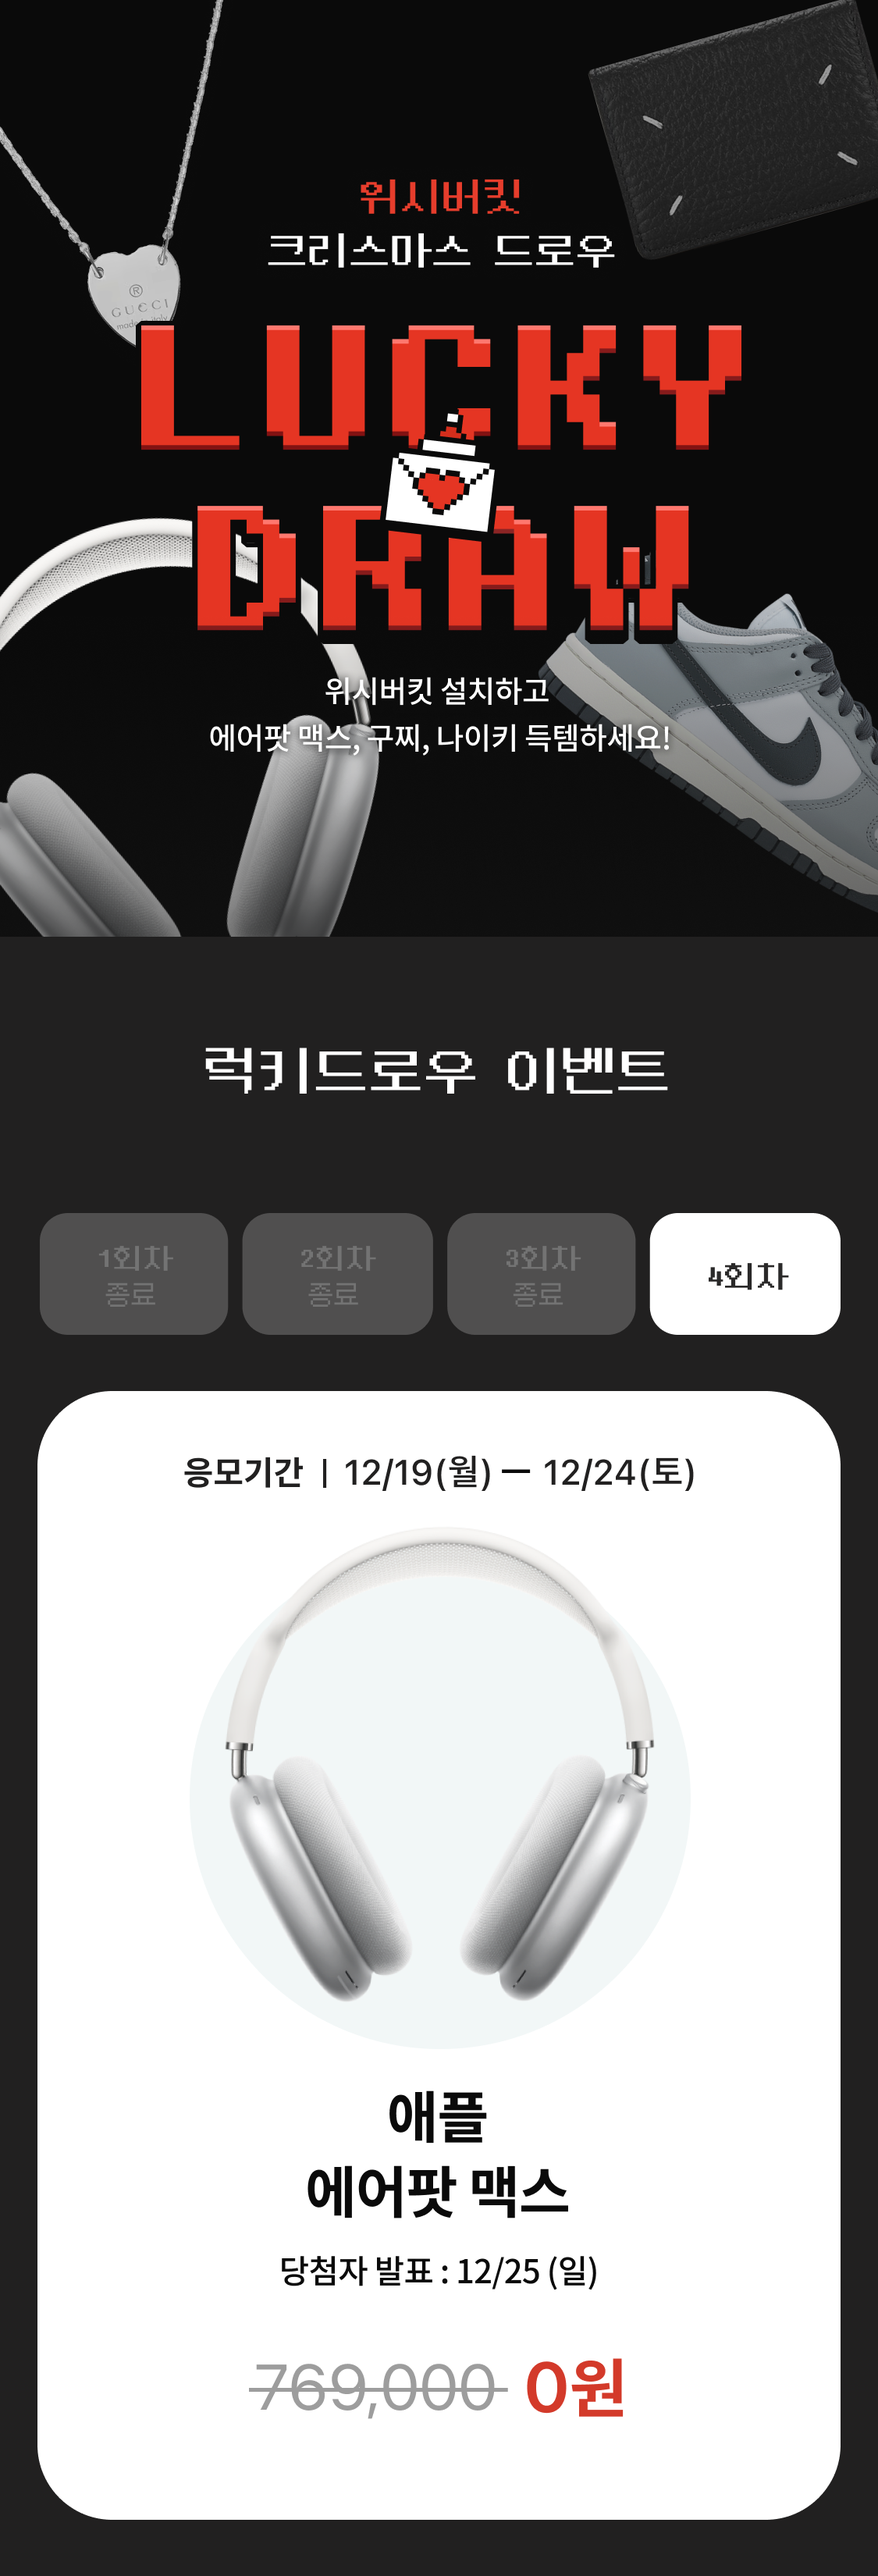
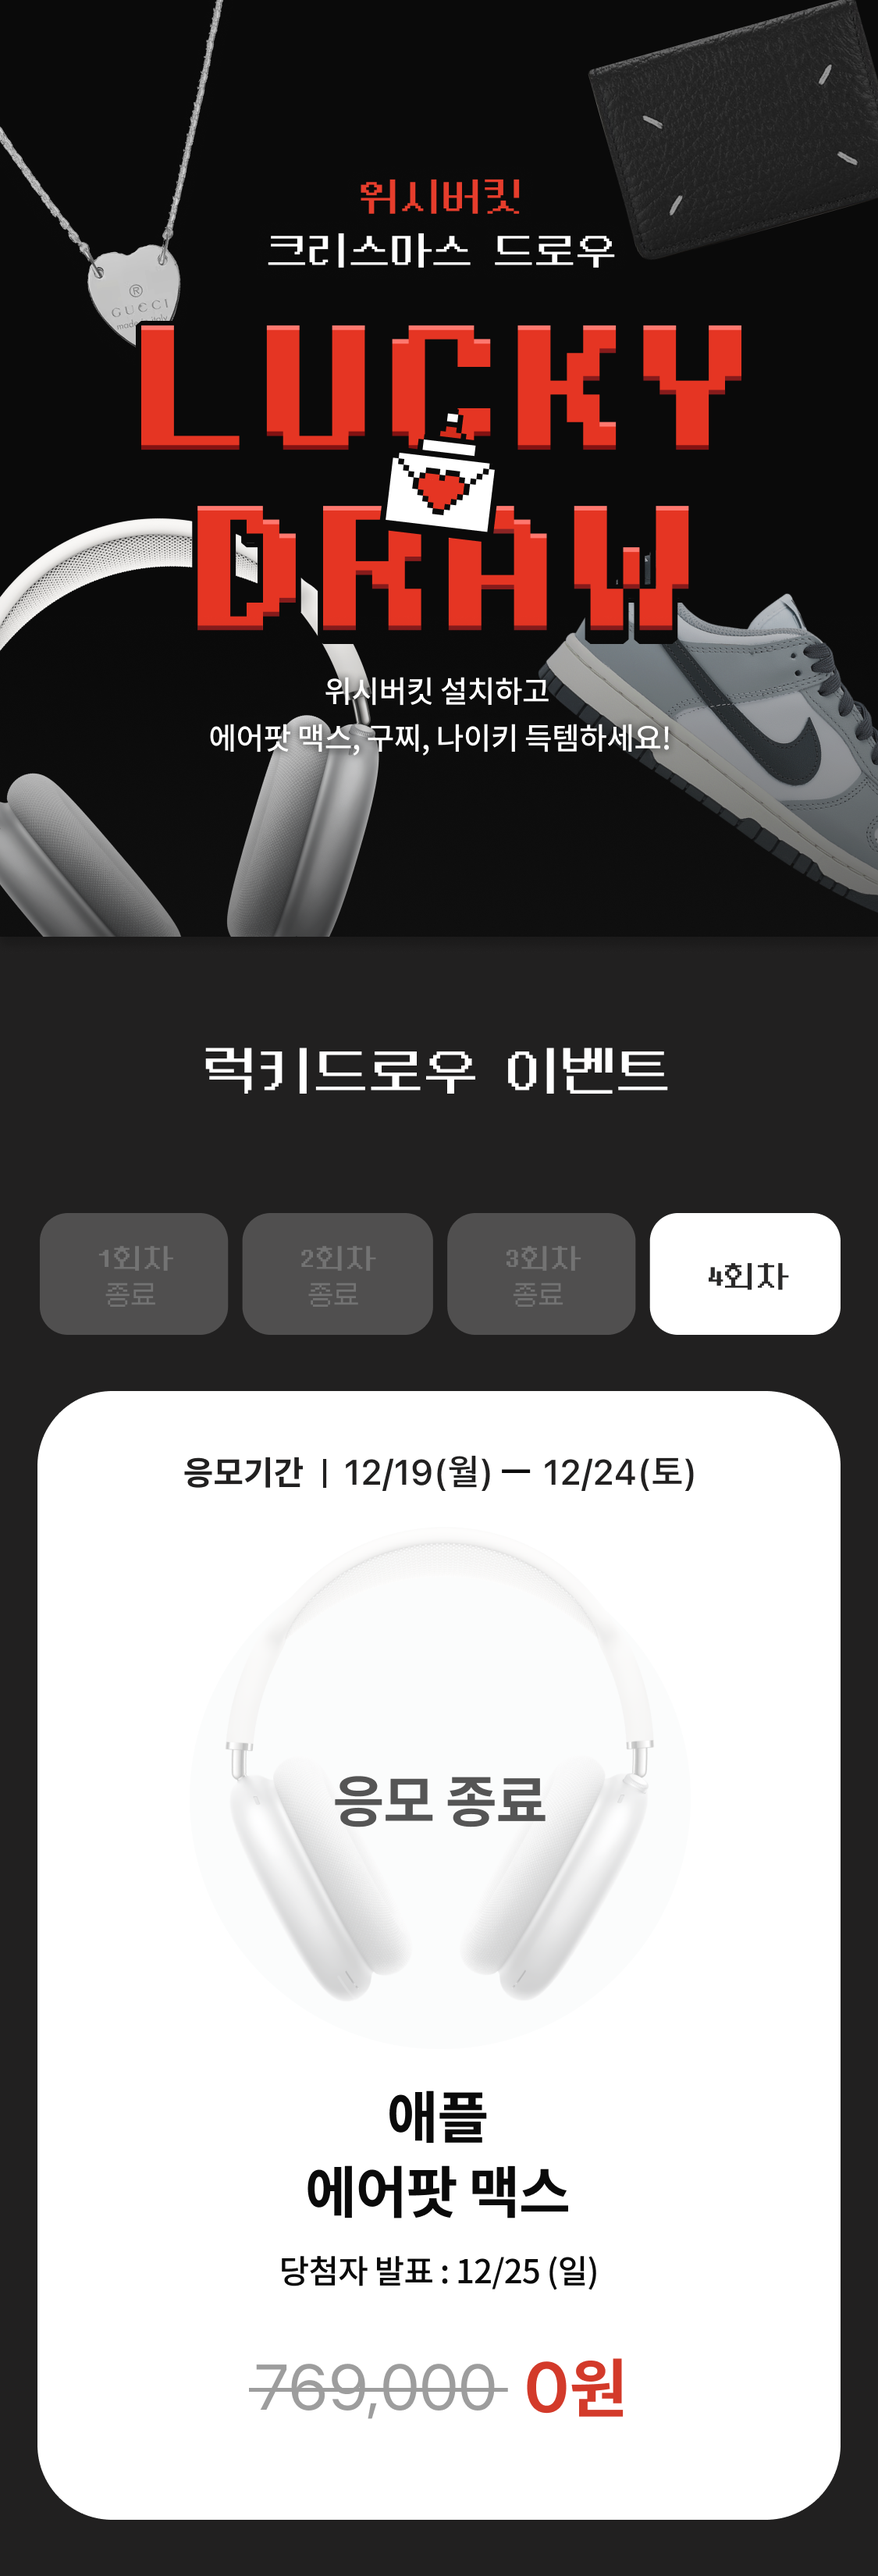
image changed

diff --git a/xmasEvent_2022/firstEvent.html b/xmasEvent_2022/firstEvent.html
@@ -40,7 +40,7 @@
 			<a class="image"><img class= "scheduleImg" src="files/raffleItem01_closed.png" alt="secondimg"></a>
 			<a class="image"><img class= "scheduleImg" src="files/raffleItem02_closed.png" alt="secondimg"></a>
 			<a class="image"><img class= "scheduleImg" src="files/raffleItem03_closed.png" alt="secondimg"></a>
-			<a class="image"><img class= "scheduleImg" src="files/raffleItem04_open.png" alt="secondimg"></a>	
+			<a class="image"><img class= "scheduleImg" src="files/raffleItem04_closed.png" alt="secondimg"></a>	
 		</div>	
 
 

diff --git a/xmasEvent_2022/rafflePromo_01.html b/xmasEvent_2022/rafflePromo_01.html
@@ -42,7 +42,7 @@
 			<a class="image"><img class= "scheduleImg" src="files/raffleItem01_closed.png" alt="secondimg"></a>
 			<a class="image"><img class= "scheduleImg" src="files/raffleItem02_closed.png" alt="secondimg"></a>
 			<a class="image"><img class= "scheduleImg" src="files/raffleItem03_closed.png" alt="secondimg"></a>
-			<a class="image"><img class= "scheduleImg" src="files/raffleItem04_open.png" alt="secondimg"></a>	
+			<a class="image"><img class= "scheduleImg" src="files/raffleItem04_closed.png" alt="secondimg"></a>	
 		</div>	
 
 

diff --git a/xmasEvent_2022/rafflePromo_02.html b/xmasEvent_2022/rafflePromo_02.html
@@ -44,7 +44,7 @@
 			<a class="image"><img class= "scheduleImg" src="files/raffleItem01_closed.png" alt="secondimg"></a>
 			<a class="image"><img class= "scheduleImg" src="files/raffleItem02_closed.png" alt="secondimg"></a>
 			<a class="image"><img class= "scheduleImg" src="files/raffleItem03_closed.png" alt="secondimg"></a>
-			<a class="image"><img class= "scheduleImg" src="files/raffleItem04_open.png" alt="secondimg"></a>	
+			<a class="image"><img class= "scheduleImg" src="files/raffleItem04_closed.png" alt="secondimg"></a>	
 		</div>	
 
 

diff --git a/xmasEvent_2022/rafflePromo_03.html b/xmasEvent_2022/rafflePromo_03.html
@@ -41,7 +41,7 @@
 			<a class="image"><img class= "scheduleImg" src="files/raffleItem01_closed.png" alt="secondimg"></a>
 			<a class="image"><img class= "scheduleImg" src="files/raffleItem02_closed.png" alt="secondimg"></a>
 			<a class="image"><img class= "scheduleImg" src="files/raffleItem03_closed.png" alt="secondimg"></a>
-			<a class="image"><img class= "scheduleImg" src="files/raffleItem04_open.png" alt="secondimg"></a>	
+			<a class="image"><img class= "scheduleImg" src="files/raffleItem04_closed.png" alt="secondimg"></a>	
 		</div>	
 
 

diff --git a/xmasEvent_2022/rafflePromo_04.html b/xmasEvent_2022/rafflePromo_04.html
@@ -36,7 +36,7 @@
 			<a class="image"><img class= "scheduleImg" src="files/raffleItem01_closed.png" alt="secondimg"></a>
 			<a class="image"><img class= "scheduleImg" src="files/raffleItem02_closed.png" alt="secondimg"></a>
 			<a class="image"><img class= "scheduleImg" src="files/raffleItem03_closed.png" alt="secondimg"></a>
-			<a class="image"><img class= "scheduleImg" src="files/raffleItem04_open.png" alt="secondimg"></a>	
+			<a class="image"><img class= "scheduleImg" src="files/raffleItem04_closed.png" alt="secondimg"></a>	
 		</div>	
 
 
